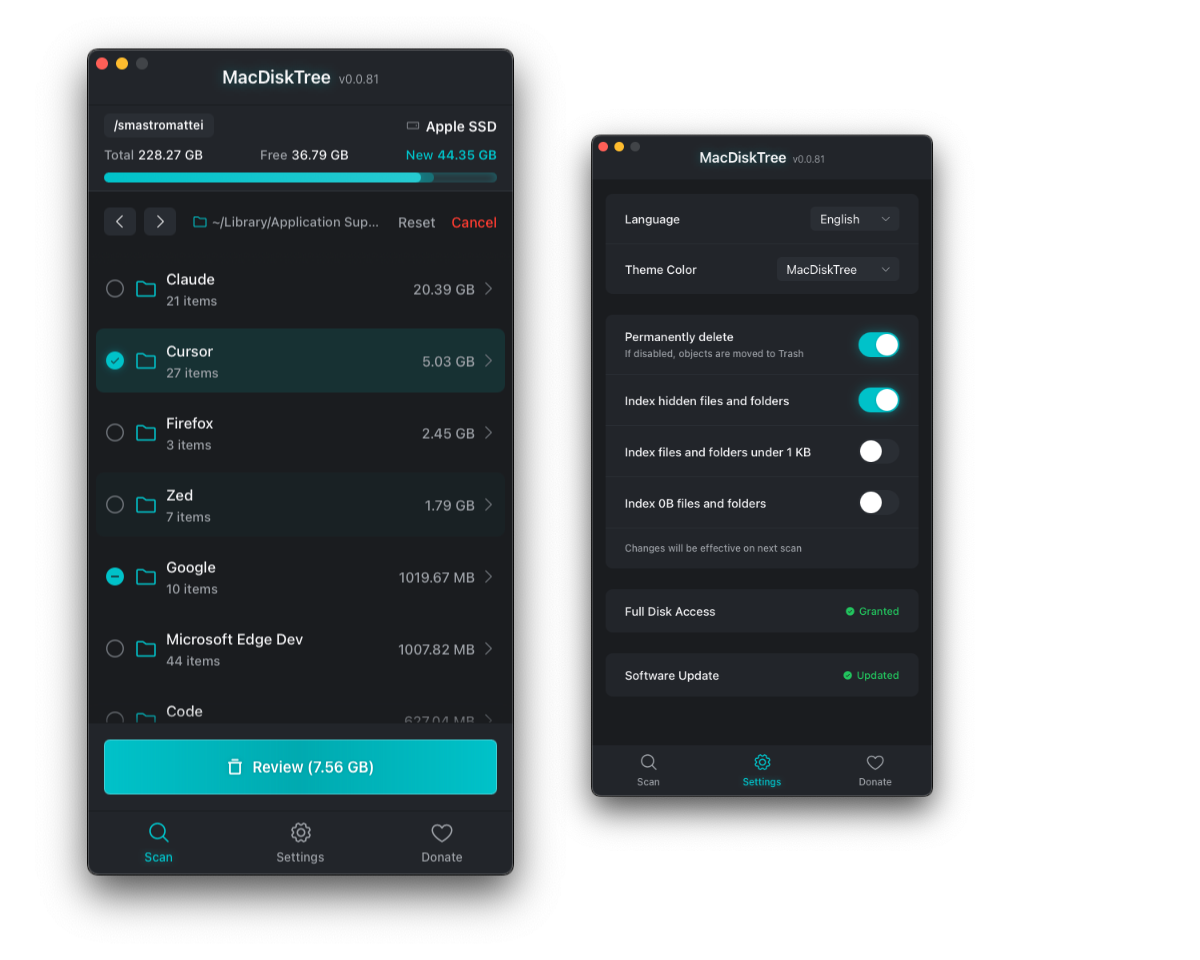
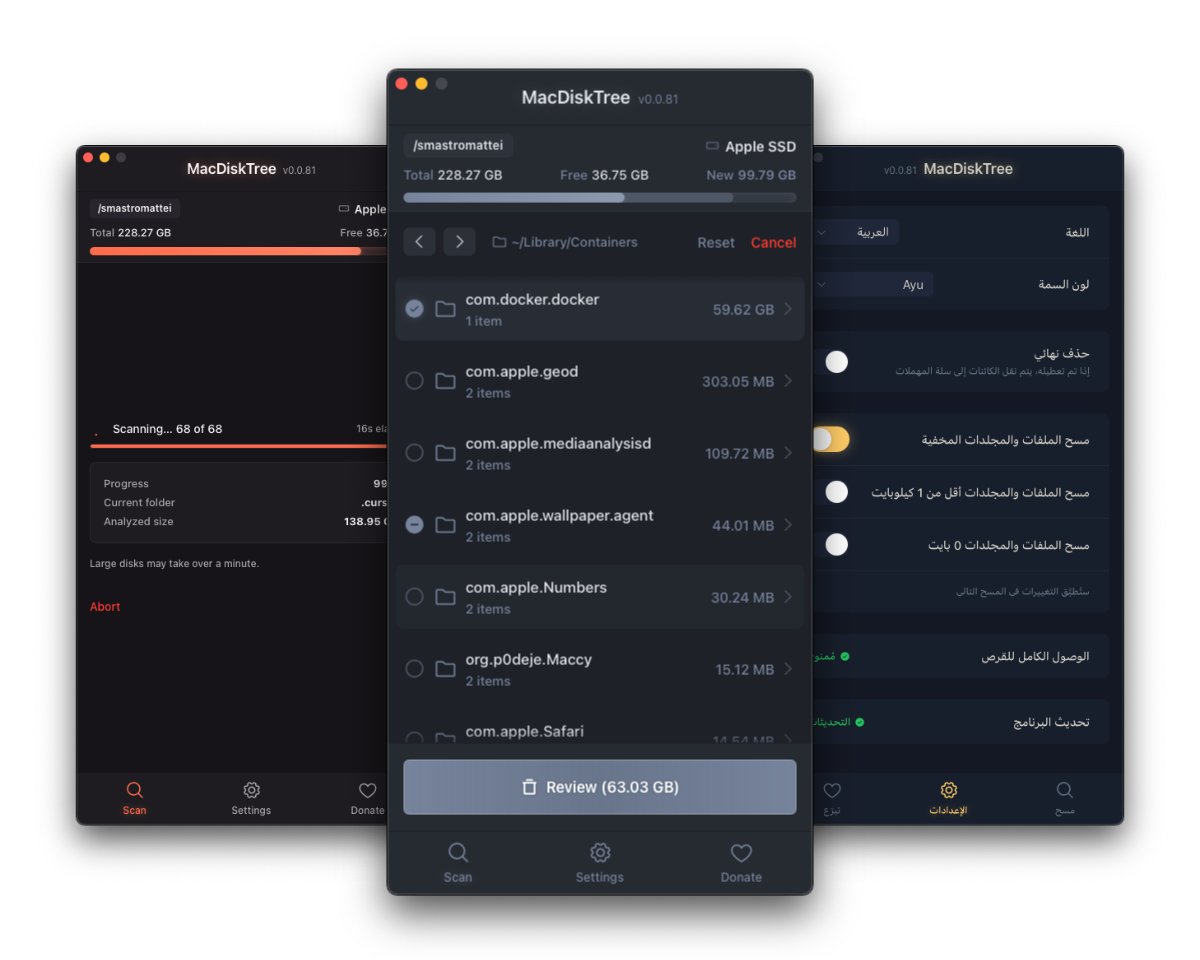
Update README

diff --git a/README.md b/README.md
@@ -13,7 +13,7 @@ MacDiskTree scans your entire user folder and presents everything as a navigable
 ## Features
 
 - **Hyper-fast scanning** — Directory scanning distributes I/O across all available CPU cores for maximum throughput
-- **Smooth UI** — Fine-tuned for performance and fluid navigation via native View Transitions API
+- **Smooth UI** — Vue 3 front-end, fine-tuned for performance and fluid navigation via native View Transitions API
 - **Smart selection** — Three-state checkboxes with full parent-child logic and a clear preview of how much space you'll reclaim before deleting
 - **Safe by design** — Move to Trash by default, critical root macOS (Desktop, Documents, Library, etc.) are protected from deletion with path canonicalization to prevent bypass. Sensitive credential folders (`.ssh`, `.aws`, etc.) are completely ignored
 - **10 languages** — English, Italian, Spanish, French, Portuguese, German, Russian, Chinese, Japanese, and Arabic (with RTL support)